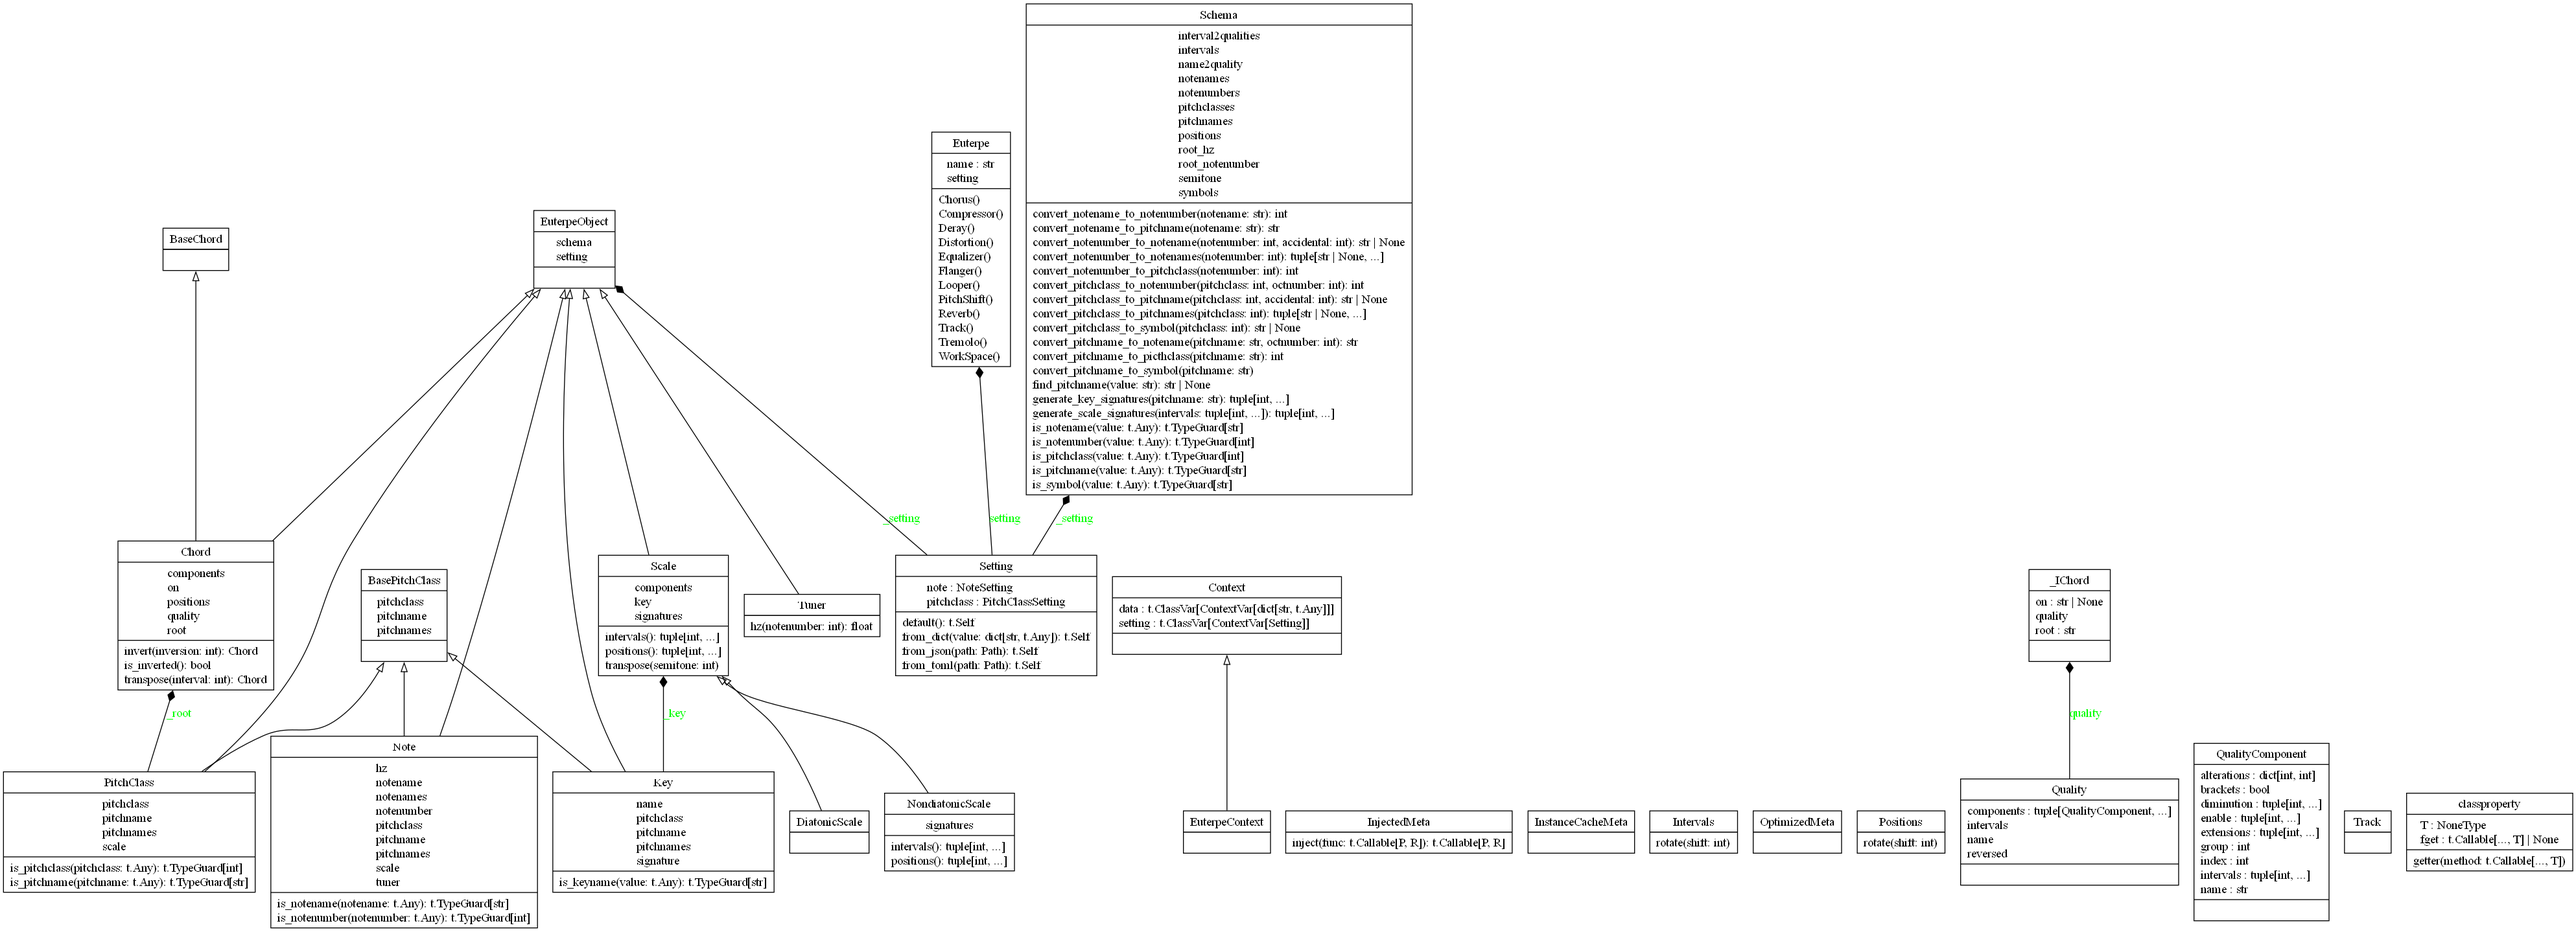
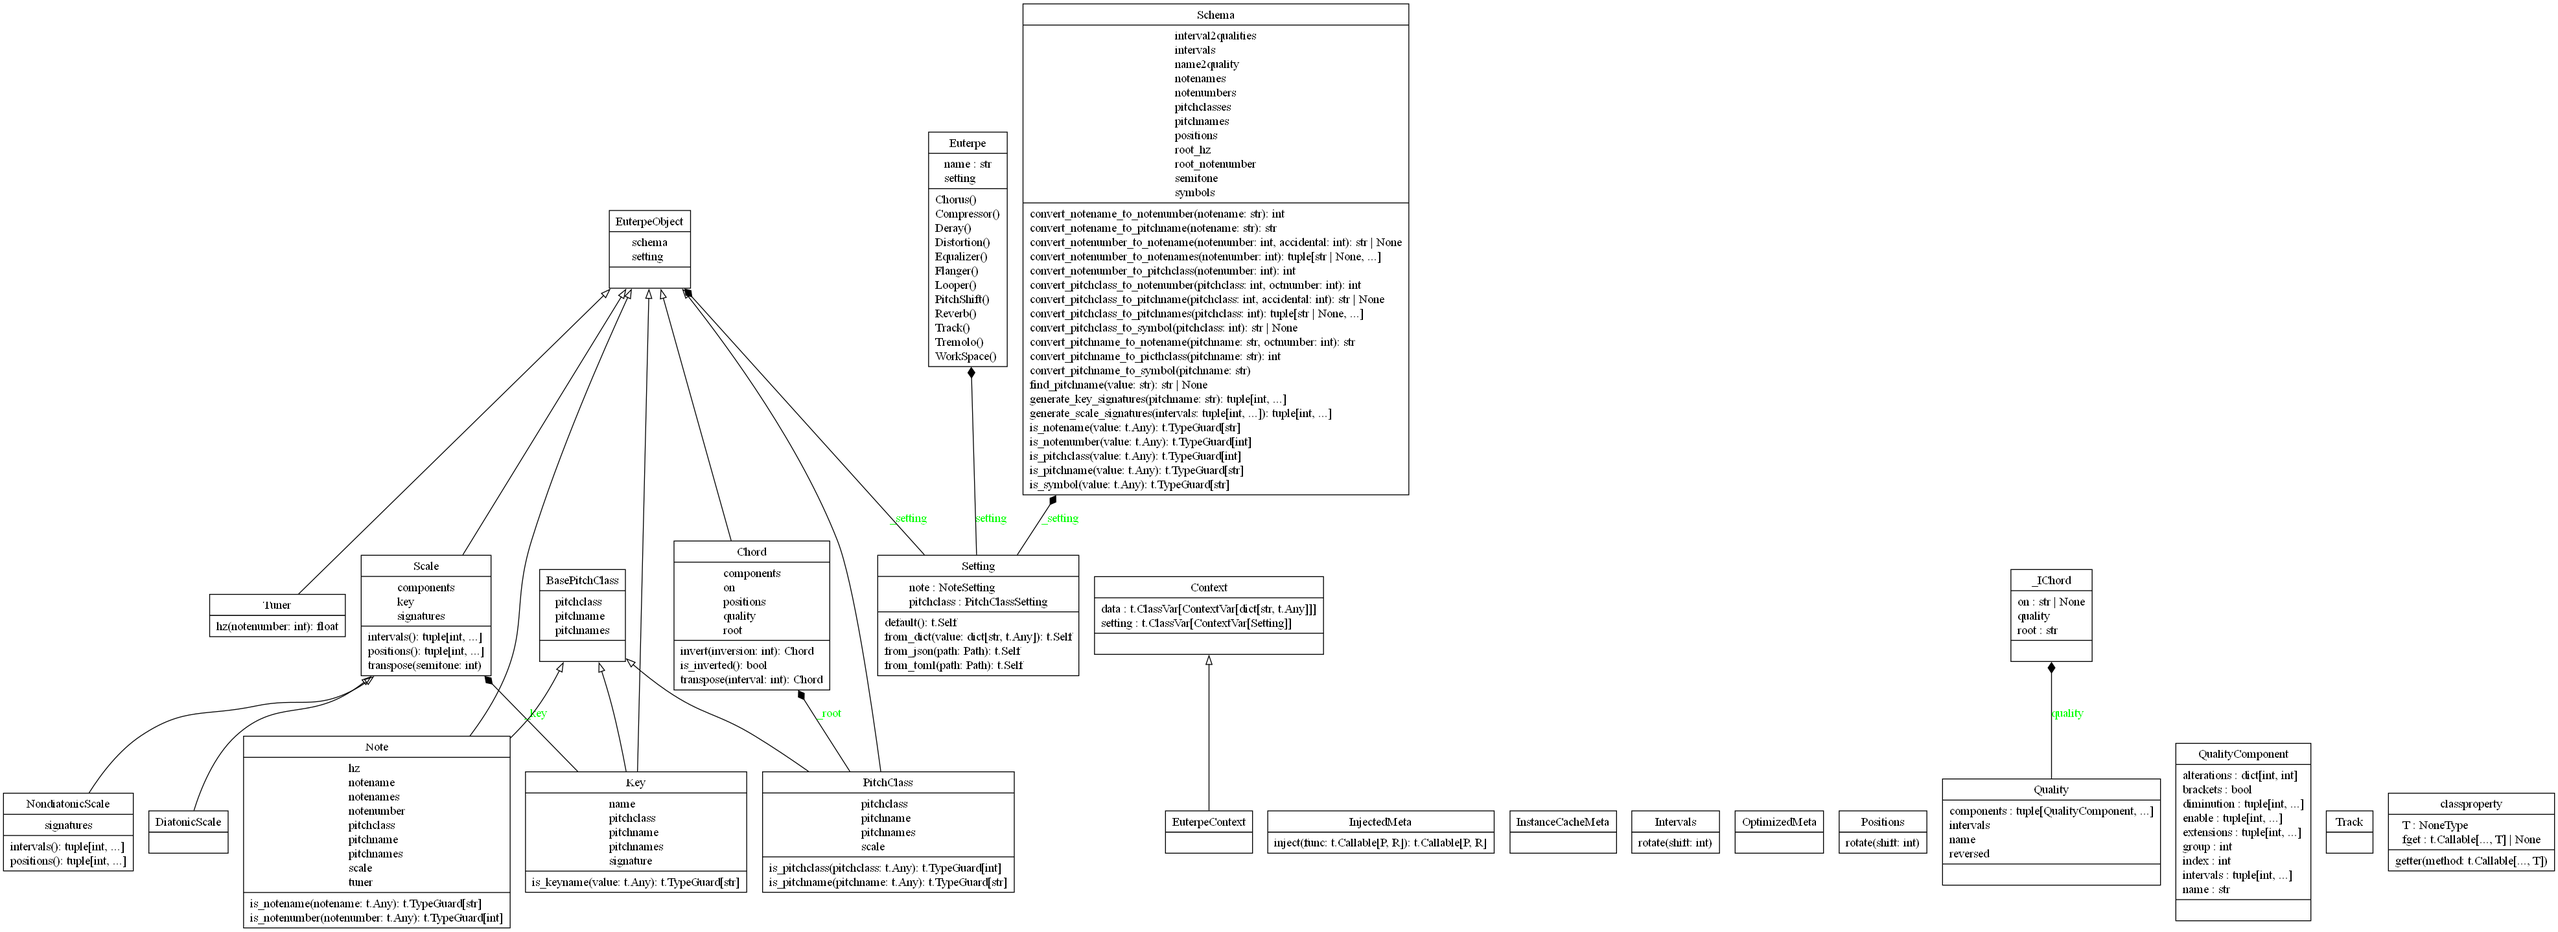
fix

diff --git a/src/euterpe/chord/chord.py b/src/euterpe/chord/chord.py
@@ -4,7 +4,6 @@ import typing as t
 
 from .._core import EuterpeObject
 from ..note import PitchClass
-from ._base import BaseChord
 from .quality import Quality
 
 
@@ -33,7 +32,7 @@ def parse(name: str, instance: Chord) -> _IChord | None:
     return {"root": root, "on": on, "quality": quality}
 
 
-class Chord(BaseChord, EuterpeObject):
+class Chord(EuterpeObject):
 
     _root: PitchClass
     _quality: Quality

diff --git a/src/run.py b/src/run.py
@@ -13,7 +13,9 @@ def workspace():
     # print(ab5.root, ab5.quality.name, ab5.on)
 
     # pprint(Dorian_s4.mro())
-    print(Note(69).hz)
+    print(Note(70, tuner=JustIntonationTuner()).hz)
+    print(Note(70, tuner=Equal12Tuner()).hz)
+    print(Note(70, tuner=MeantoneTuner()).hz)
     # pprint(Dorian(Key("F#")).signatures)
     # pprint(Locrian(Key("C")).components)
     
